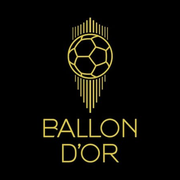
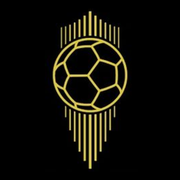
Nom du site : Ballondor (titre, Open Graph, données structurées) ; icônes sans le texte

Changed region(s): [[0.2222, 0.0556, 0.7778, 0.9444]]

diff --git a/index.html b/index.html
@@ -5,10 +5,15 @@
     <meta name="viewport" content="width=device-width, initial-scale=1, viewport-fit=cover" />
     <meta name="theme-color" content="#0b0b0d" />
     <meta name="description" content="Les 10 candidats au Ballon d'Or 2026 : statistiques et palmarès de la saison (3 août 2025 – 19 juillet 2026)." />
-    <title>Ballon d'Or 2026</title>
+    <title>Ballondor</title>
+    <meta name="application-name" content="Ballondor" />
+    <meta name="apple-mobile-web-app-title" content="Ballondor" />
+    <!-- Nom du site pour Google (données structurées WebSite). -->
+    <script type="application/ld+json">{"@context":"https://schema.org","@type":"WebSite","name":"Ballondor","url":"https://pierrestang.github.io/ballondor/"}</script>
     <!-- Aperçu des liens partagés : adresses absolues (exigées par certains réseaux). -->
     <meta property="og:type" content="website" />
-    <meta property="og:title" content="Ballon d'Or 2026" />
+    <meta property="og:site_name" content="Ballondor" />
+    <meta property="og:title" content="Ballondor" />
     <meta property="og:description" content="Les 10 candidats au Ballon d'Or 2026 : comparez-les en duel et établissez votre classement." />
     <meta property="og:url" content="https://pierrestang.github.io/ballondor/" />
     <meta property="og:image" content="https://pierrestang.github.io/ballondor/og.jpg" />

diff --git a/src/routes.js b/src/routes.js
@@ -22,9 +22,9 @@ export function parseRoute(hash) {
 export function routeOf({ page, pair, solo }) {
   if (page === 'final') {
     const [a, b] = pair.map((k) => players[k])
-    return { hash: `#duel/${a.id}/${b.id}`, title: `${a.nom} contre ${b.nom} · Ballon d'Or 2026` }
+    return { hash: `#duel/${a.id}/${b.id}`, title: `${a.nom} contre ${b.nom} · Ballondor` }
   }
-  if (page === 'solo') return { hash: `#joueur/${players[solo].id}`, title: `${players[solo].nom} · Ballon d'Or 2026` }
-  if (page === 'game') return { hash: '#classement', title: "Mon classement · Ballon d'Or 2026" }
-  return { hash: '', title: "Ballon d'Or 2026" }
+  if (page === 'solo') return { hash: `#joueur/${players[solo].id}`, title: `${players[solo].nom} · Ballondor` }
+  if (page === 'game') return { hash: '#classement', title: "Mon classement · Ballondor" }
+  return { hash: '', title: 'Ballondor' }
 }

diff --git a/docs/HISTORIQUE.md b/docs/HISTORIQUE.md
@@ -43,7 +43,7 @@ Tous les chemins du JSON commencent par `assets/` : les préfixer avec `import.m
 
 ## Icône de l'onglet
 
-Icônes (12/11/2026) : nouveau logo Ballon d'Or (ballon à traits verticaux, « BALLON D'OR » en dessous, or sur noir ; source `assets-source/logo-ballon-dor-2026.png`). `public/favicon.png` (64 px, seule icône d'onglet déclarée dans `index.html`) : le ballon et ses traits seuls, sans le texte ; `public/apple-touch-icon.png` (180 px) : le logo complet, texte compris. `favicon.svg` retiré. Avant (12/10/2026) : ballon en cercle sur socle en trapèze, redessiné en SVG.
+Icônes (12/11/2026) : nouveau logo Ballon d'Or (ballon à traits verticaux, « BALLON D'OR » en dessous, or sur noir ; source `assets-source/logo-ballon-dor-2026.png`). `public/favicon.png` (64 px, seule icône d'onglet déclarée dans `index.html`) : le ballon et ses traits seuls, sans le texte ; `public/apple-touch-icon.png` (180 px) : pareil, sans le texte non plus (le ballon et ses traits remplissent la hauteur, centrés ; marge 7 %, 2 % pour l'onglet). `favicon.svg` retiré. Avant (12/10/2026) : ballon en cercle sur socle en trapèze, redessiné en SVG.
 
 ## Page 0 — l'intro (chargement : `src/Intro.jsx` ; scène : `src/Carousel.jsx`)
 
